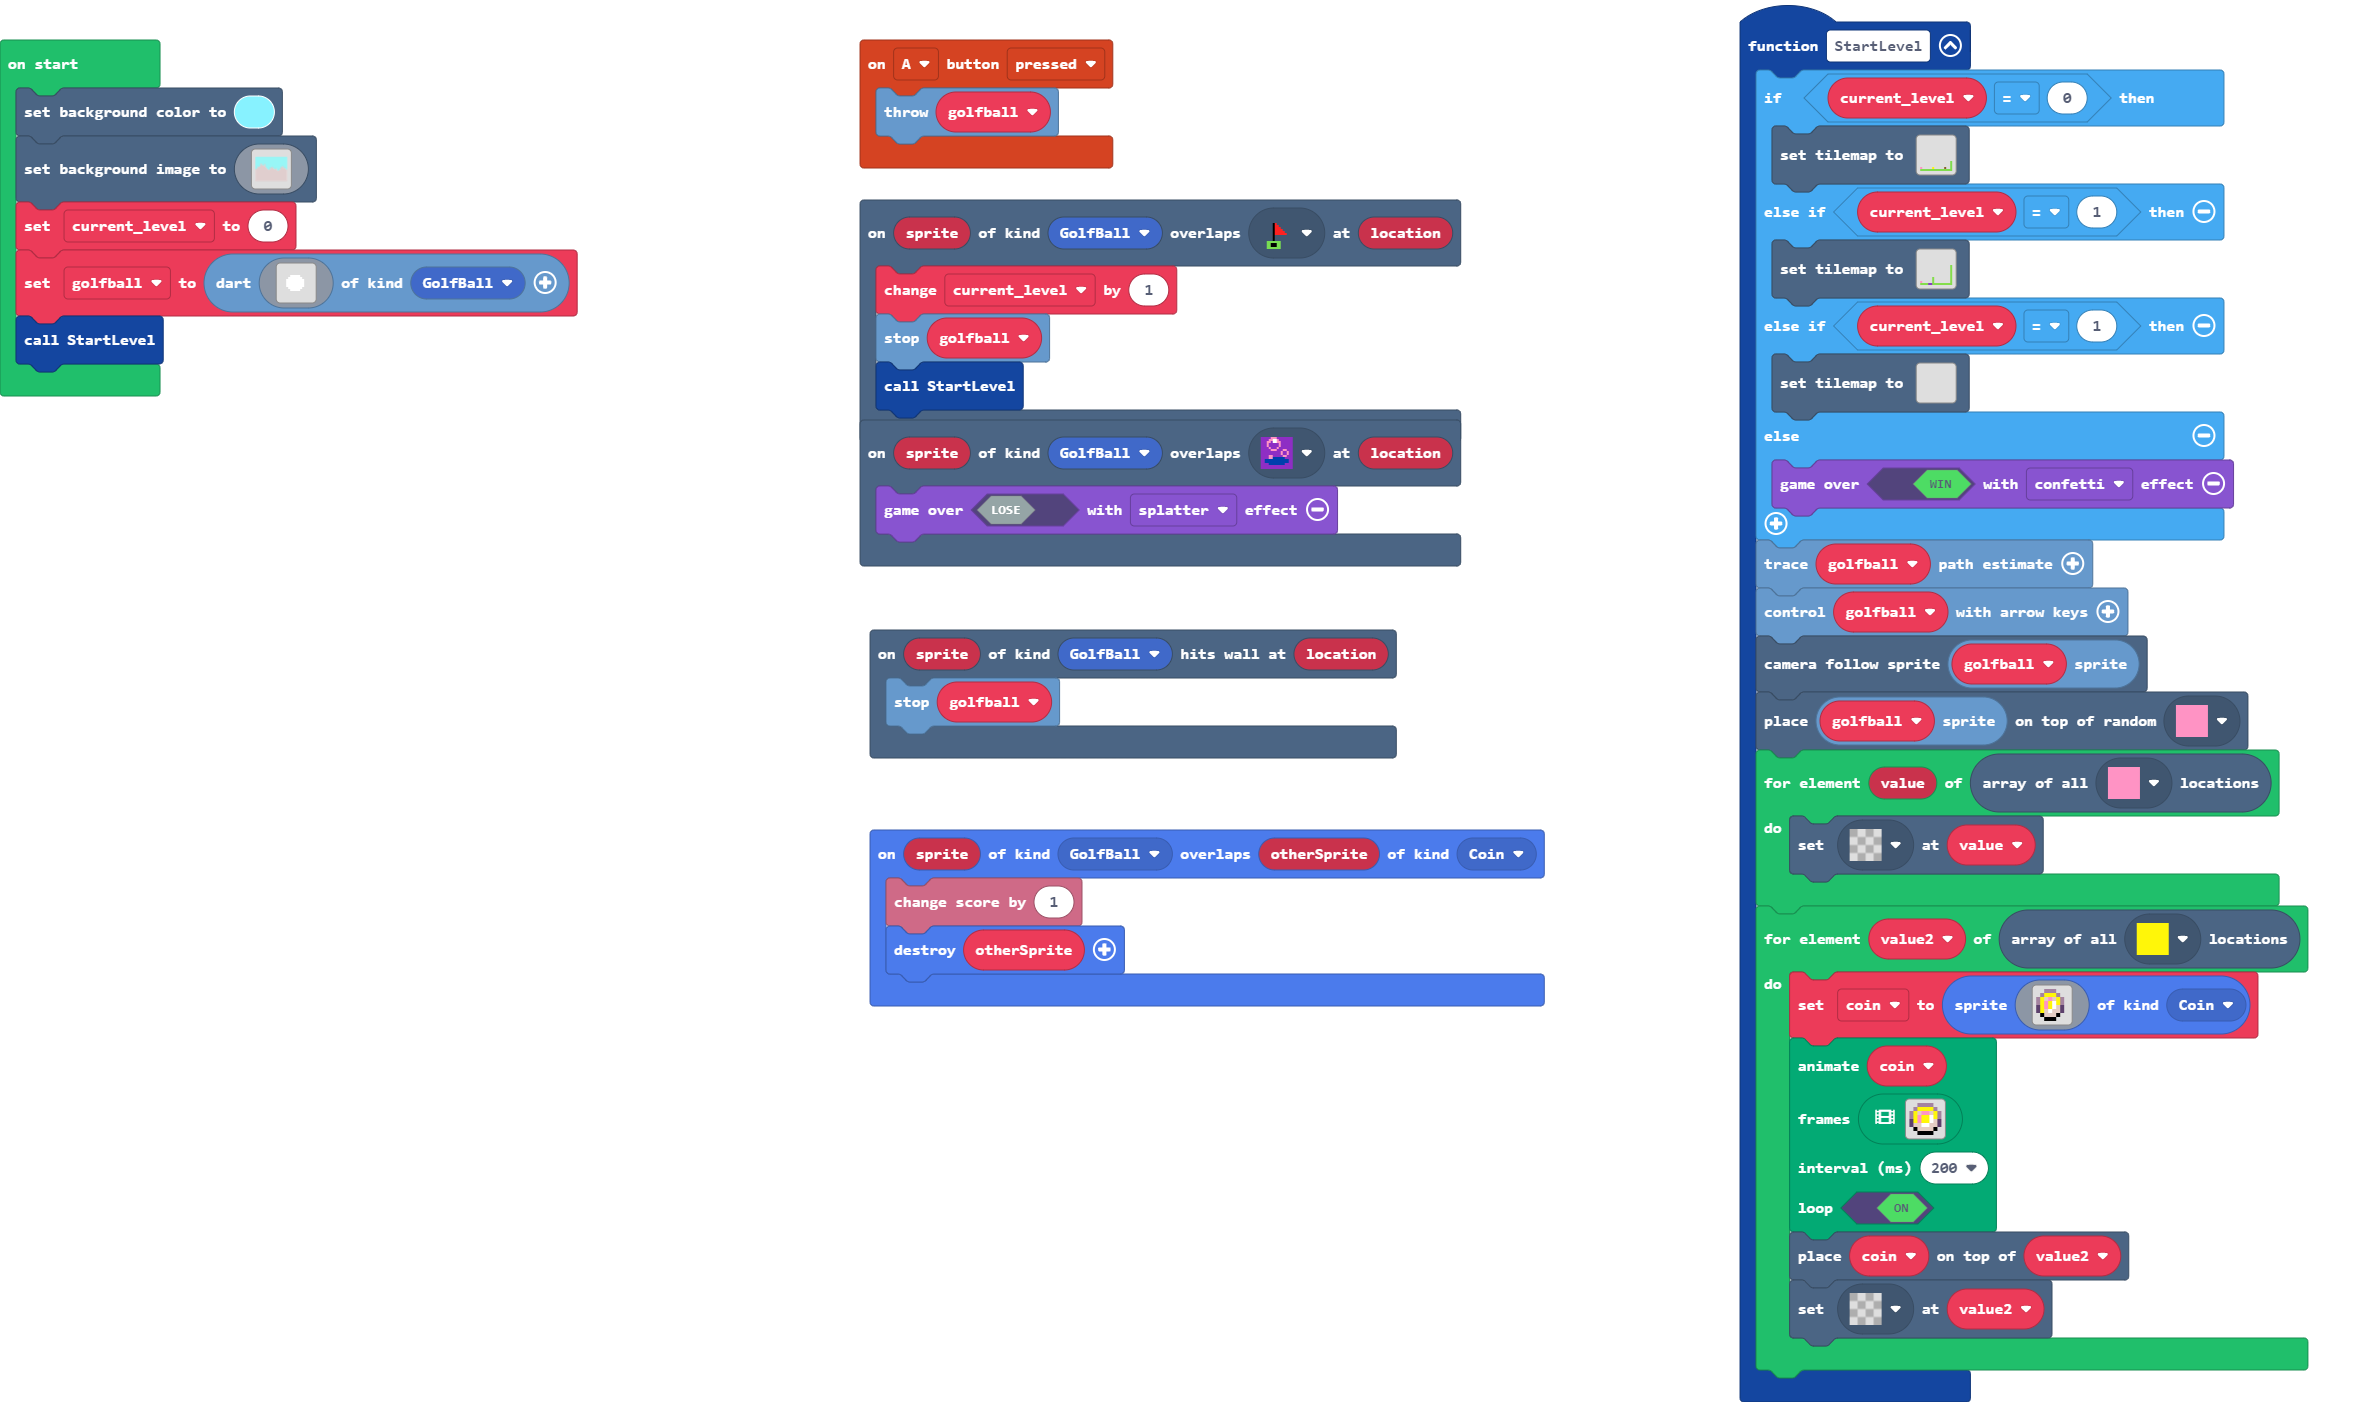
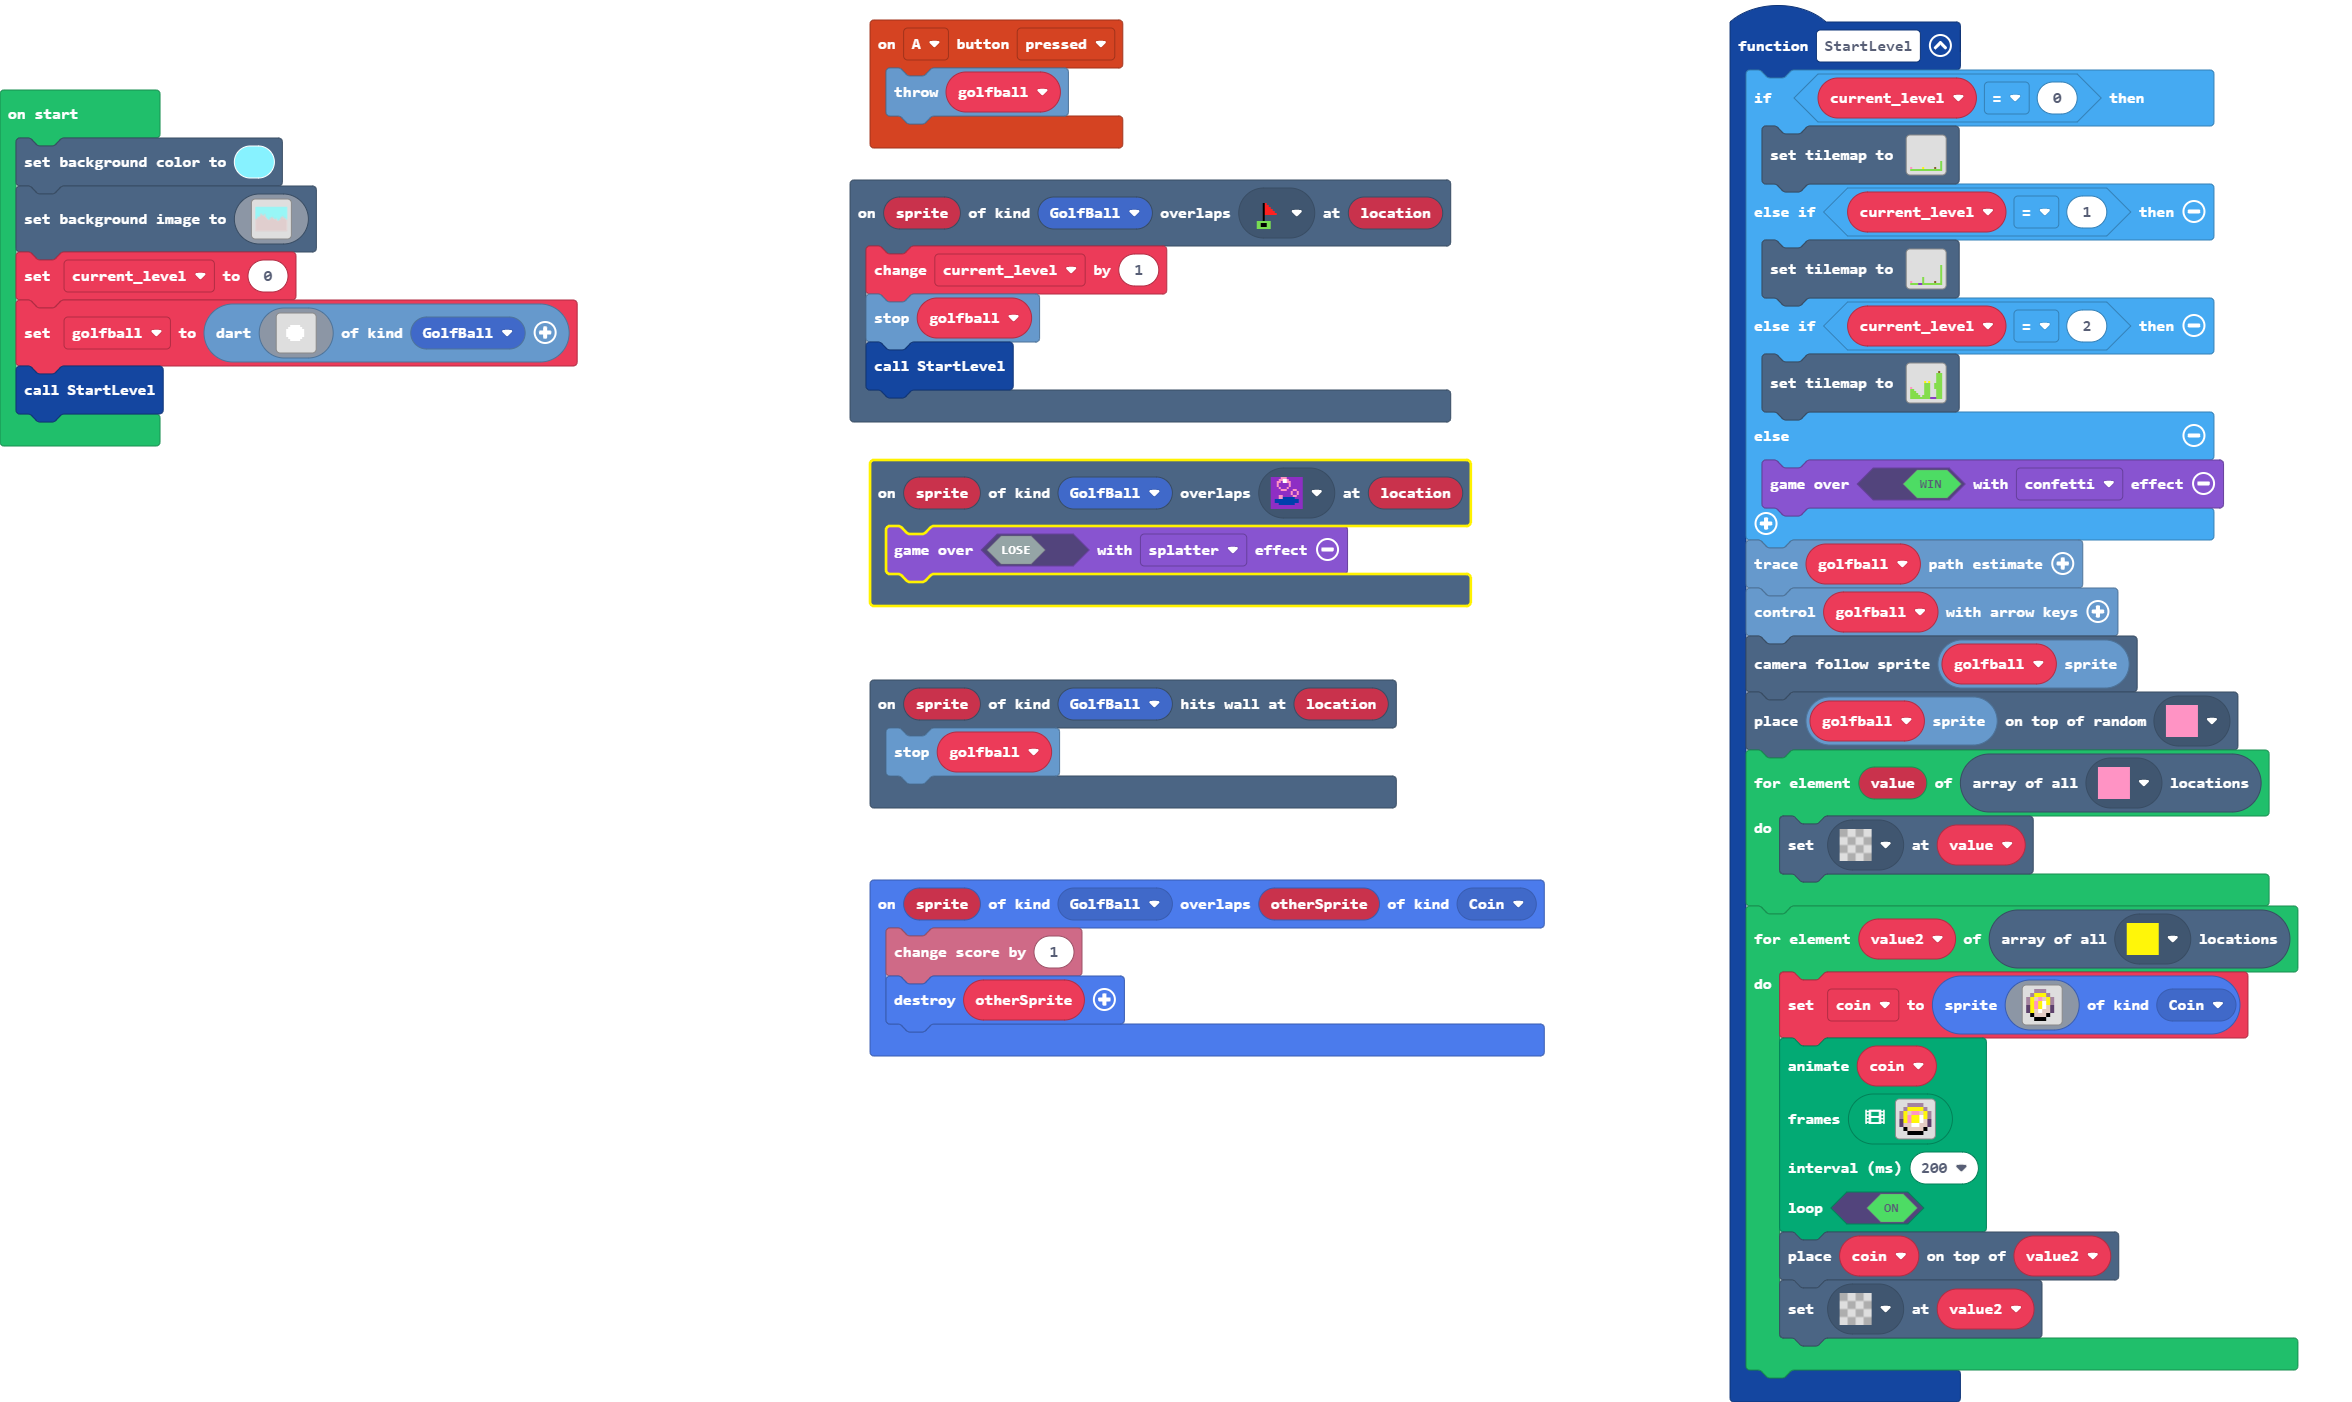
Update main.blocks, main.ts, tilemap.g.jres, tilemap.g.ts

diff --git a/tilemap.g.ts b/tilemap.g.ts
@@ -120,44 +120,6 @@ namespace myTiles {
 2 . . . . . . . . . . . . . . 2 
 2 2 2 2 2 . . . . 2 2 2 2 2 2 2 
 `, [myTiles.transparency16,sprites.castle.tileGrass1,myTiles.tile1,myTiles.tile2,sprites.swamp.swampTile13], TileScale.Sixteen);
-            case "level10":
-            case "level10":return tiles.createTilemap(hex`1000100000000000000000000000000000000000000000000000000000000000000000000000000000000000000000000000000000000000000000000000000000000000000000000000000000000000000000000000000000000000000000000000000000000000000000000000000000000000000000000000000000000000000000000000000000000000000000000000000000000000000000000000000000000000000000000000000000000000000000000000000000000000000000000000000000000000000000000000000000000000000000000000000000000000000000000000000000000000000000000000000000000000000000000000000000000000`, img`
-. . . . . . . . . . . . . . . . 
-. . . . . . . . . . . . . . . . 
-. . . . . . . . . . . . . . . . 
-. . . . . . . . . . . . . . . . 
-. . . . . . . . . . . . . . . . 
-. . . . . . . . . . . . . . . . 
-. . . . . . . . . . . . . . . . 
-. . . . . . . . . . . . . . . . 
-. . . . . . . . . . . . . . . . 
-. . . . . . . . . . . . . . . . 
-. . . . . . . . . . . . . . . . 
-. . . . . . . . . . . . . . . . 
-. . . . . . . . . . . . . . . . 
-. . . . . . . . . . . . . . . . 
-. . . . . . . . . . . . . . . . 
-. . . . . . . . . . . . . . . . 
-`, [myTiles.transparency16], TileScale.Sixteen);
-            case "level9":
-            case "level9":return tiles.createTilemap(hex`1000100000000000000000000000000000000000000000000000000000000000000000000000000000000000000000000000000000000000000000000000000000000000000000000000000000000000000000000000000000000000000000000000000000000000000000000000000000000001000000000000000000000000000000010000000000000000000000000000000100000000000000000000000000000001000000000000000000000000000000010000000000000000000000000000000100000000000001000000000000000001000000000000010000000000000000010300000000000100000000000000000101010101020201010101010101010101`, img`
-. . . . . . . . . . . . . . . . 
-. . . . . . . . . . . . . . . . 
-. . . . . . . . . . . . . . . . 
-. . . . . . . . . . . . . . . . 
-. . . . . . . . . . . . . . . . 
-. . . . . . . . . . . . . . . . 
-. . . . . . . . . . . . . . . 2 
-. . . . . . . . . . . . . . . 2 
-. . . . . . . . . . . . . . . 2 
-. . . . . . . . . . . . . . . 2 
-. . . . . . . . . . . . . . . 2 
-. . . . . . . . . . . . . . . 2 
-. . . . . . 2 . . . . . . . . 2 
-. . . . . . 2 . . . . . . . . 2 
-. . . . . . 2 . . . . . . . . 2 
-2 2 2 2 . . 2 2 2 2 2 2 2 2 2 2 
-`, [myTiles.transparency16,sprites.castle.tileGrass3,sprites.swamp.swampTile13,myTiles.tile2], TileScale.Sixteen);
             case "level8":
             case "level8":return tiles.createTilemap(hex`1000100000000000000000000000000000000000000000000000000000000000000000000000000000000000000000000000000000000000000000000000000000000000000000000000000000000000000000000000000000000000000000000000000000000000000000000000000000000000000000000000000000000000000000000000000000000000000000000000000000000000000000000000000000000000000000000000000000000000000000000000000000000000000000000000000300000000000000000000000000000003000000000000000000000000000000030200000000000400000000000100000303030303030303030303030303030303`, img`
 . . . . . . . . . . . . . . . . 
@@ -177,6 +139,44 @@ namespace myTiles {
 . . . . . . . . . . . . . . . 2 
 2 2 2 2 2 2 2 2 2 2 2 2 2 2 2 2 
 `, [myTiles.transparency16,myTiles.tile1,myTiles.tile2,sprites.castle.tileGrass1,myTiles.tile3], TileScale.Sixteen);
+            case "level9":
+            case "level9":return tiles.createTilemap(hex`1000100000000000000000000000000000000000000000000000000000000000000000000000000000000000000000000000000000000000000000000000000000000000000000000000000000000000000000000000000000000000000000000000000000000000000000000000000000000001000000000000000000000000000000010000000000000000000000000000000100000000000000000000000000000001000000000000000000000000000000010000000000000000000000000000000100000000000001000000000000000001000000000000010000000000000000010300000000000100000000000400000101010101020201010101010101010101`, img`
+. . . . . . . . . . . . . . . . 
+. . . . . . . . . . . . . . . . 
+. . . . . . . . . . . . . . . . 
+. . . . . . . . . . . . . . . . 
+. . . . . . . . . . . . . . . . 
+. . . . . . . . . . . . . . . . 
+. . . . . . . . . . . . . . . 2 
+. . . . . . . . . . . . . . . 2 
+. . . . . . . . . . . . . . . 2 
+. . . . . . . . . . . . . . . 2 
+. . . . . . . . . . . . . . . 2 
+. . . . . . . . . . . . . . . 2 
+. . . . . . 2 . . . . . . . . 2 
+. . . . . . 2 . . . . . . . . 2 
+. . . . . . 2 . . . . . . . . 2 
+2 2 2 2 . . 2 2 2 2 2 2 2 2 2 2 
+`, [myTiles.transparency16,sprites.castle.tileGrass3,sprites.swamp.swampTile13,myTiles.tile2,myTiles.tile1], TileScale.Sixteen);
+            case "level10":
+            case "level10":return tiles.createTilemap(hex`1000100000000000000000000000000000000000000000000000000000000000000000000000000000000000000000000000010000000000000000000000000000040404000000000000000000000000000404040000000000000000000000000004040400000000000000000000000000040404000000000000000300030000000404040000000000000004040400000404040400000000000000040404000004040404020000000000000404040000040404040404000000000004040400000004040404040400000000040404000000040404040404040000000404040000000404040404040404000404040400000004040404040404040404040404050505040404`, img`
+. . . . . . . . . . . . . . . . 
+. . . . . . . . . . . . . . . . 
+. . . . . . . . . . . . . . . . 
+. . . . . . . . . . . . . 2 2 2 
+. . . . . . . . . . . . . 2 . 2 
+. . . . . . . . . . . . . 2 . 2 
+. . . . . . . . . . . . . 2 . 2 
+. . . . . . . . . . . . . 2 . 2 
+. . . . . . . 2 2 2 . . 2 2 . 2 
+. . . . . . . 2 . 2 . . 2 . . 2 
+. . . . . . . 2 . 2 . . 2 2 . 2 
+2 2 . . . . . 2 . 2 . . . 2 . 2 
+. 2 2 . . . . 2 . 2 . . . 2 . 2 
+. . 2 2 . . . 2 . 2 . . . 2 2 2 
+. . . 2 2 . 2 2 . 2 . . . 2 2 2 
+. . . . 2 2 2 . . 2 . . . 2 2 2 
+`, [myTiles.transparency16,myTiles.tile1,myTiles.tile2,myTiles.tile3,sprites.castle.tileGrass3,sprites.swamp.swampTile13], TileScale.Sixteen);
         }
         return null;
     })

diff --git a/main.ts b/main.ts
@@ -8,7 +8,7 @@ function StartLevel () {
         tiles.setTilemap(tilemap`level8`)
     } else if (current_level == 1) {
         tiles.setTilemap(tilemap`level9`)
-    } else if (current_level == 1) {
+    } else if (current_level == 2) {
         tiles.setTilemap(tilemap`level10`)
     } else {
         game.over(true, effects.confetti)
